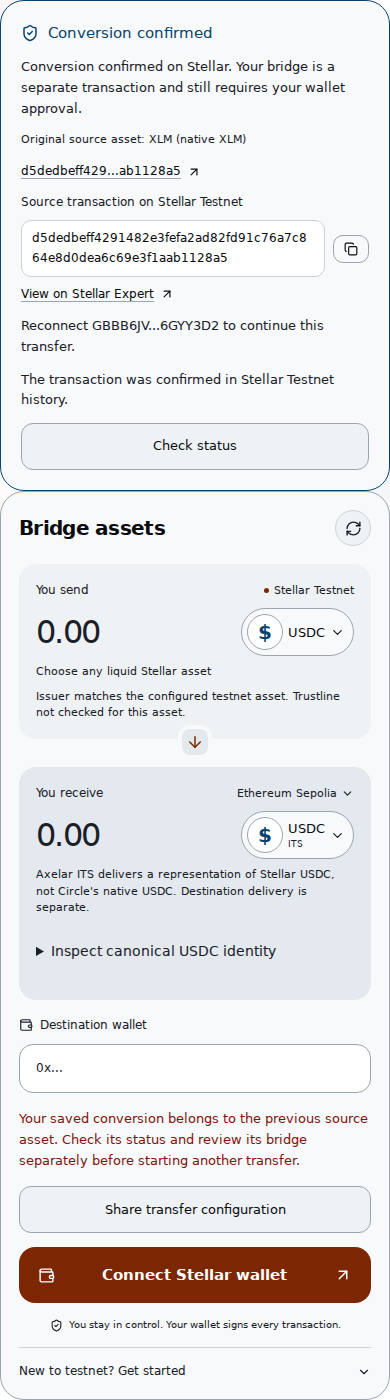
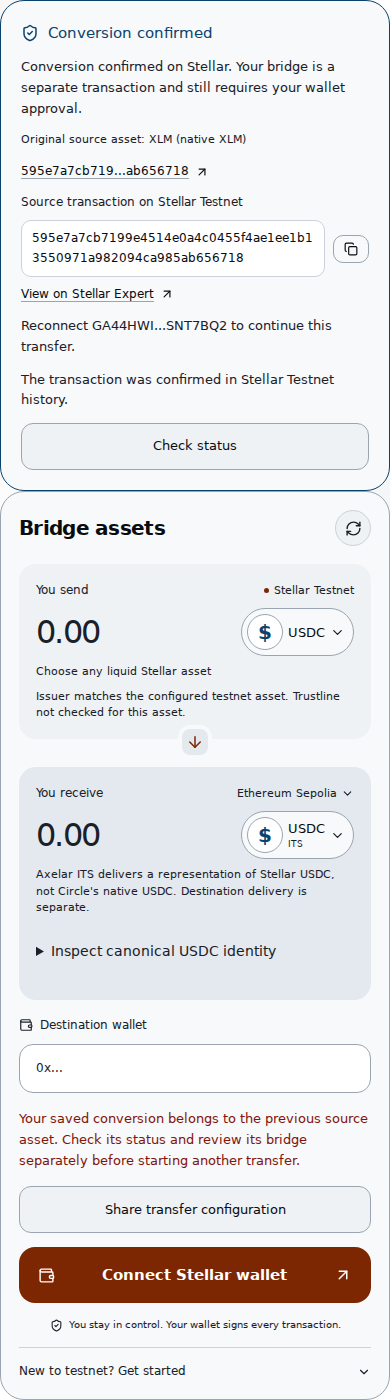
Record final integrated conversion recovery verification

diff --git a/docs/review/conversion-source-recovery/README.md b/docs/review/conversion-source-recovery/README.md
@@ -3,3 +3,5 @@
 Chromium 158.0.8127.18 drove the complete production Bridge, SourceAssetPicker, Stellar provider and checkpoint store in a small Vite fixture. Next navigation links were rendered as anchors; RPC and Horizon reads were mocked. Generated local keys supplied an independently encoded Stellar conversion envelope and success/failure result. No wallet approval or network submission occurred.
 
 The browser changed XLM to USDC while a saved conversion remained pending. Its original account, exact amount, source identity and signed hash stayed unchanged, the recovery card retained the original source asset, and no new conversion or bridge ran. Confirmed, failed and unknown read responses, explicit reconnect guidance, repeated-click locking and discarded late account responses also passed. Desktop and mobile captures were inspected for overflow and recovery copy. Source hashes are recorded.
+
+The final Node 22 pipeline passed formatting, house rules, contrast, 317 tests, lint, typecheck and production build after integrating the validated native reserve and wallet cancellation repairs. The source fixture and desktop/mobile captures were refreshed at that same application source. Live spending suites stayed disabled.
